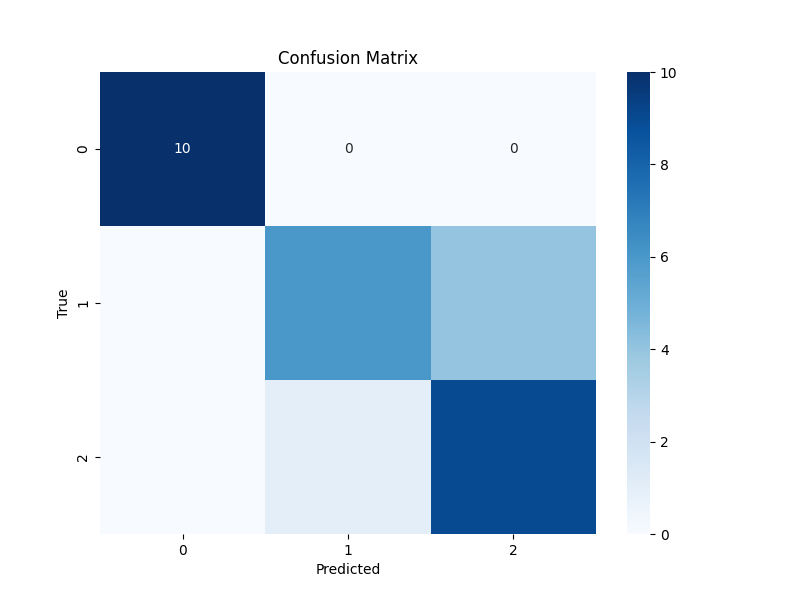
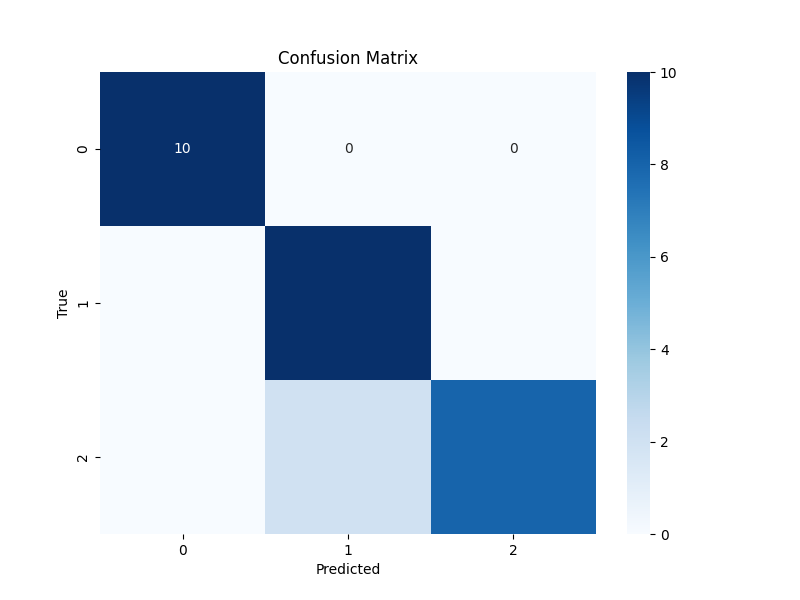
bump version

Changed region(s): [[0.3125, 0.36, 0.75, 0.9]]

diff --git a/src/desafio1/models/ml/iris_train.py b/src/desafio1/models/ml/iris_train.py
@@ -10,7 +10,6 @@ import seaborn as sns
 from imblearn.over_sampling import SMOTE
 from numpy import ndarray
 from sklearn import datasets
-from sklearn.linear_model import LogisticRegression
 from sklearn.metrics import (
     accuracy_score,
     auc,
@@ -22,7 +21,7 @@ from sklearn.metrics import (
     roc_curve,
 )
 from sklearn.model_selection import StratifiedKFold, cross_val_score, learning_curve, train_test_split
-from sklearn.multiclass import OneVsRestClassifier
+from sklearn.neighbors import KNeighborsClassifier
 from sklearn.pipeline import Pipeline
 from sklearn.preprocessing import StandardScaler
 from tqdm import tqdm
@@ -31,12 +30,12 @@ from tqdm import tqdm
 class IrisModelTrainer:
     def __init__(self) -> None:
         """
-        Inicializa a classe IrisModelTrainer com um pipeline de padronização e regressão logística.
+        Inicializa a classe IrisModelTrainer com um pipeline de padronização e KNN.
         """
         self.pipeline = Pipeline(
             [
                 ("scaler", StandardScaler()),
-                ("classifier", OneVsRestClassifier(LogisticRegression(max_iter=200, C=0.1))),
+                ("classifier", KNeighborsClassifier(n_neighbors=5)),
             ]
         )
 
@@ -179,25 +178,6 @@ class IrisModelTrainer:
         plt.savefig(os.path.join(plot_path, "roc_curve.png"))
         plt.close()
 
-    def plot_feature_importance(self, model: Pipeline, plot_path: str) -> None:
-        """
-        Plota a importância das features e salva o gráfico.
-
-        Args:
-            model (Pipeline): Modelo treinado.
-            plot_path (str): Caminho para salvar os gráficos.
-        """
-        importances = model.named_steps["classifier"].estimators_[0].coef_[0]
-        feature_names = ["Comprimento Sépala", "Largura Sépala", "Comprimento Pétala", "Largura Pétala"]
-
-        plt.figure(figsize=(10, 6))
-        plt.bar(feature_names, importances, color="blue")
-        plt.xlabel("Features")
-        plt.ylabel("Importance")
-        plt.title("Feature Importance")
-        plt.savefig(os.path.join(plot_path, "feature_importance.png"))
-        plt.close()
-
     def plot_dataset_info(self, X: ndarray, plot_path: str) -> None:
         """
         Plota informações básicas sobre o dataset.
@@ -284,11 +264,10 @@ class IrisModelTrainer:
         self.plot_metrics(y_test, y_pred, plot_path)
         self.plot_confusion_matrix(y_test, y_pred, plot_path)
         self.plot_roc_curve(y_test, y_proba, plot_path)
-        self.plot_feature_importance(model, plot_path)
 
     def train_model(self, X_train: ndarray, y_train: ndarray) -> Pipeline:
         """
-        Treina o modelo de classificação usando Logistic Regression.
+        Treina o modelo de classificação usando KNN.
 
         Args:
             X_train (ndarray): Atributos de treinamento.
@@ -309,14 +288,13 @@ class IrisModelTrainer:
             y (ndarray): Alvos do dataset.
             plot_path (str): Caminho para salvar os gráficos.
         """
-        model = OneVsRestClassifier(LogisticRegression(max_iter=200, C=0.1))
+        model = KNeighborsClassifier(n_neighbors=5)
         skf = StratifiedKFold(n_splits=5, shuffle=True, random_state=42)
         scores = cross_val_score(model, X, y, cv=skf)
 
         print("Acurácia com validação cruzada:", scores.mean())
         print("Desvio padrão da acurácia:", scores.std())
 
-        # Plotting the cross-validation scores
         plt.figure(figsize=(10, 6))
         plt.plot(range(1, len(scores) + 1), scores, marker="o", linestyle="-", color="blue")
         plt.title("Cross Validation Scores")
@@ -369,7 +347,6 @@ class IrisModelTrainer:
 
             model = self.train_model(X_train_balanced, y_train_balanced)
             pbar.update(steps)
-
             self.evaluate_model(model, X_test, y_test, plot_path)
             pbar.update(steps)
 
@@ -387,6 +364,6 @@ class IrisModelTrainer:
 if __name__ == "__main__":
     trainer = IrisModelTrainer()
     timestamp = datetime.now().strftime("%Y%m%d")
-    model_file_path = f"./saved_models/iris_lr_v1_{timestamp}.pkl"
+    model_file_path = f"./saved_models/iris_knn_v1_{timestamp}.pkl"
     plot_path = "./data"
     trainer.run(model_file_path, plot_path)

diff --git a/src/desafio1/api/v1/routers/iris_router.py b/src/desafio1/api/v1/routers/iris_router.py
@@ -1,3 +1,6 @@
+from enum import Enum
+from typing import Dict
+
 from fastapi import APIRouter, HTTPException, Request
 from pydantic import BaseModel
 from sklearn.pipeline import Pipeline
@@ -5,7 +8,24 @@ from sklearn.pipeline import Pipeline
 app_iris_predict_v1 = APIRouter()
 
 
+class IrisClassNames(str, Enum):
+    """Enum para mapear classes numéricas para nomes de espécies de Íris."""
+
+    setosa = "Iris-setosa"
+    versicolor = "Iris-versicolor"
+    virginica = "Iris-virginica"
+
+
 class IrisPredictionRequest(BaseModel):
+    """Modelo para a requisição de predição de Íris.
+
+    Attributes:
+        sepal_length (float): Comprimento da sépala.
+        sepal_width (float): Largura da sépala.
+        petal_length (float): Comprimento da pétala.
+        petal_width (float): Largura da pétala.
+    """
+
     sepal_length: float
     sepal_width: float
     petal_length: float
@@ -13,16 +33,24 @@ class IrisPredictionRequest(BaseModel):
 
 
 class IrisPredictionResponse(BaseModel):
-    prediction: str
+    """Modelo para a resposta da predição de Íris.
+
+    Attributes:
+        prediction (int): Classe predita como número.
+        class_name (str): Nome da classe predita.
+        probability (float): Probabilidade associada à predição.
+    """
+
+    prediction: int
+    class_name: str
     probability: float
 
 
 def get_model(request: Request) -> Pipeline:
-    """
-    Obtém o modelo treinado do estado da aplicação.
+    """Obtém o modelo treinado a partir do estado da aplicação.
 
     Args:
-        request (Request): A requisição atual.
+        request (Request): Requisição atual.
 
     Returns:
         Pipeline: O modelo treinado.
@@ -36,25 +64,29 @@ def get_model(request: Request) -> Pipeline:
     response_model=IrisPredictionResponse,
     description="Obtenha uma classificação para flores de Íris",
 )
-async def get_prediction(request: IrisPredictionRequest, req: Request):
-    """
-    Endpoint para obter previsões das espécies de flores Íris a partir das características da flor.
+async def get_prediction(request: IrisPredictionRequest, req: Request) -> IrisPredictionResponse:
+    """Endpoint para obter previsões das espécies de flores Íris a partir das características da flor.
 
     Args:
         request (IrisPredictionRequest): Objeto contendo características de uma flor Íris.
         req (Request): A requisição atual para obter o modelo treinado.
 
     Returns:
-        IrisPredictionResponse: Um objeto contendo a previsão e a probabilidade.
+        IrisPredictionResponse: Um objeto contendo a previsão, o nome da classe e a probabilidade.
     """
     model = get_model(req)
-    class_names = ["Iris-setosa", "Iris-versicolor", "Iris-virginica"]
+    class_mapping: Dict[int, str] = {
+        0: IrisClassNames.setosa.value,
+        1: IrisClassNames.versicolor.value,
+        2: IrisClassNames.virginica.value,
+    }
+
     try:
         data = [[request.sepal_length, request.sepal_width, request.petal_length, request.petal_width]]
-        class_index = model.predict(data)[0]
-        class_name = class_names[class_index]
+        prediction = model.predict(data)[0]
+        class_name = class_mapping[prediction]
         probability = max(model.predict_proba(data)[0])
-        return IrisPredictionResponse(prediction=class_name, probability=probability)
+        return IrisPredictionResponse(prediction=prediction, class_name=class_name, probability=probability)
     except ValueError as e:
         raise HTTPException(status_code=400, detail=f"Erro de valor: {e}") from e
     except Exception as e:

diff --git a/src/desafio1/api/v1/main.py b/src/desafio1/api/v1/main.py
@@ -21,15 +21,21 @@ def get_latest_model_path(models_dir: str) -> str:
     Returns:
         str: Caminho do arquivo de modelo mais recente.
     """
-    model_files = glob.glob(os.path.join(models_dir, "iris_lr_v1_*.pkl"))  # Mudança para .pkl
+    model_files = glob.glob(os.path.join(models_dir, "iris_knn_v1_*.pkl"))  # Mudança para .pkl
     if not model_files:
-        raise FileNotFoundError("Nenhum modelo encontrado no diretório especificado.")
+        raise ModelNotFoundError()
     latest_model = max(model_files, key=os.path.getctime)
     return latest_model
 
 
+class ModelNotFoundError(Exception):
+    def __init__(self, message="Nenhum modelo encontrado no diretório especificado."):
+        self.message = message
+        super().__init__(self.message)
+
+
 @app.get("/")
-async def read_root():
+async def read_root() -> dict:
     """
     Endpoint raiz para verificar o status da API.
 
@@ -40,7 +46,7 @@ async def read_root():
 
 
 @app.on_event("startup")
-async def startup_event():
+async def startup_event() -> None:
     """
     Ação a ser executada quando a aplicação iniciar.
     Isso inclui a ingestão dos dados do dataset Íris e o carregamento do modelo.
@@ -56,19 +62,19 @@ async def startup_event():
         with open(model_path, "rb") as f:
             app.state.model = pickle.load(f)  # Use pickle para carregar o modelo
         print(f"Modelo carregado com sucesso: {model_path}")
-    except FileNotFoundError as e:
+    except ModelNotFoundError as e:
         print(str(e))
-        raise HTTPException(status_code=500, detail="Falha ao carregar o modelo no startup.")
+        raise HTTPException(status_code=500, detail="Falha ao carregar o modelo no startup.") from e
     except ConnectionError as e:
         print(str(e))
-        raise HTTPException(status_code=500, detail="Falha ao carregar o dataset Iris no startup.")
+        raise HTTPException(status_code=500, detail="Falha ao carregar o dataset Iris no startup.") from e
     except Exception as e:
         print(str(e))
-        raise HTTPException(status_code=500, detail="Erro inesperado ao carregar o modelo ou dataset.")
+        raise HTTPException(status_code=500, detail="Erro inesperado ao iniciar a aplicação.") from e
 
 
 @app.on_event("shutdown")
-async def shutdown_event():
+async def shutdown_event() -> None:
     """
     Ação a ser executada quando a aplicação for desligada.
     """

diff --git a/src/desafio1/api/services/prediction_service.py b/src/desafio1/api/services/prediction_service.py
@@ -1,19 +1,16 @@
-import joblib
+from typing import List
 
-model = joblib.load("path/to/your/model.pkl")
+import numpy as np
+from sklearn.pipeline import Pipeline
 
 
-def make_prediction(iris_data):
-    """
-    Realiza uma previsão usando o modelo de machine learning carregado.
+def predict(model: Pipeline, features: List[float]) -> int:
+    data = np.array(features).reshape(1, -1)
+    prediction = model.predict(data)[0]
+    return prediction
 
-    Args:
-        iris_data (IrisModel): Dados da flor Íris para a qual a previsão deve ser feita.
 
-    Returns:
-        dict: Um dicionário contendo as previsões e probabilidades.
-    """
-    data = [[iris_data.sepal_length, iris_data.sepal_width, iris_data.petal_length, iris_data.petal_width]]
-    prediction = model.predict(data)
-    probability = model.predict_proba(data)
-    return {"prediction": prediction.tolist(), "probability": probability.tolist()}
+def predict_proba(model: Pipeline, features: List[float]) -> List[float]:
+    data = np.array(features).reshape(1, -1)
+    probabilities = model.predict_proba(data)[0]
+    return probabilities.tolist()

diff --git a/src/desafio1/api/config.py b/src/desafio1/api/config.py
@@ -1,5 +1,5 @@
 class Settings:
-    model_path: str = "./saved_models/iris_lr_v1_*.pkl"
+    model_path: str = "./saved_models/iris_knn_v1_*.pkl"
 
 
 settings = Settings()
